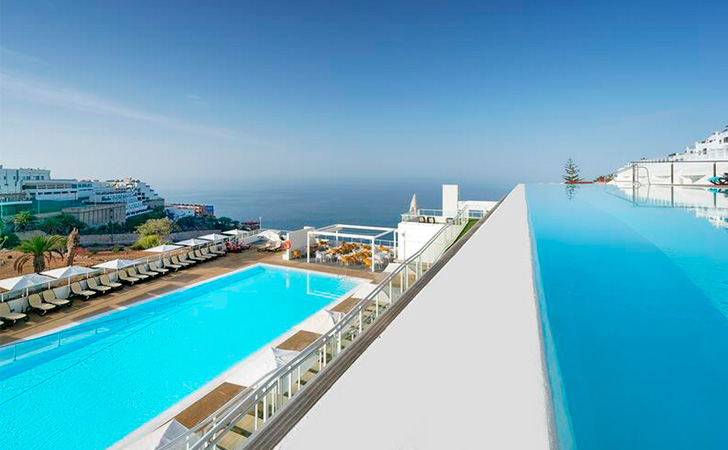
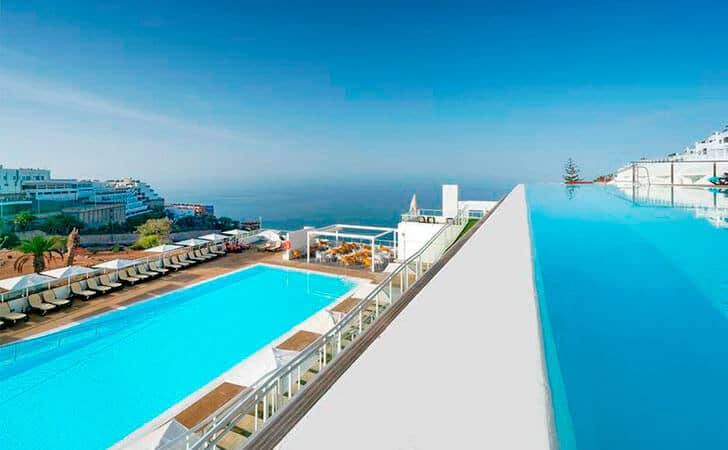
fix: optimized images for google speed check

diff --git a/index.html b/index.html
@@ -6,11 +6,10 @@
   <meta name="viewport" content="width=device-width, initial-scale=1.0">
   <title>Best Tour Plan - Hotel Booking</title>
   <link href="https://fonts.googleapis.com/css2?family=Muli:wght@400;700&family=Nunito:wght@400;700;800&display=swap"
-    rel="stylesheet">
+    rel="preload">
   <link rel="shortcut icon" href="favicon.ico" type="image/x-icon">
   <link rel="icon" href="favicon.ico" type="image/x-icon">
   <link rel="stylesheet" href="css/swiper-bundle.min.css">
-  <link rel="stylesheet" href="css/aos.css">
   <link rel="stylesheet" href="css/style.css">
 </head>
 
